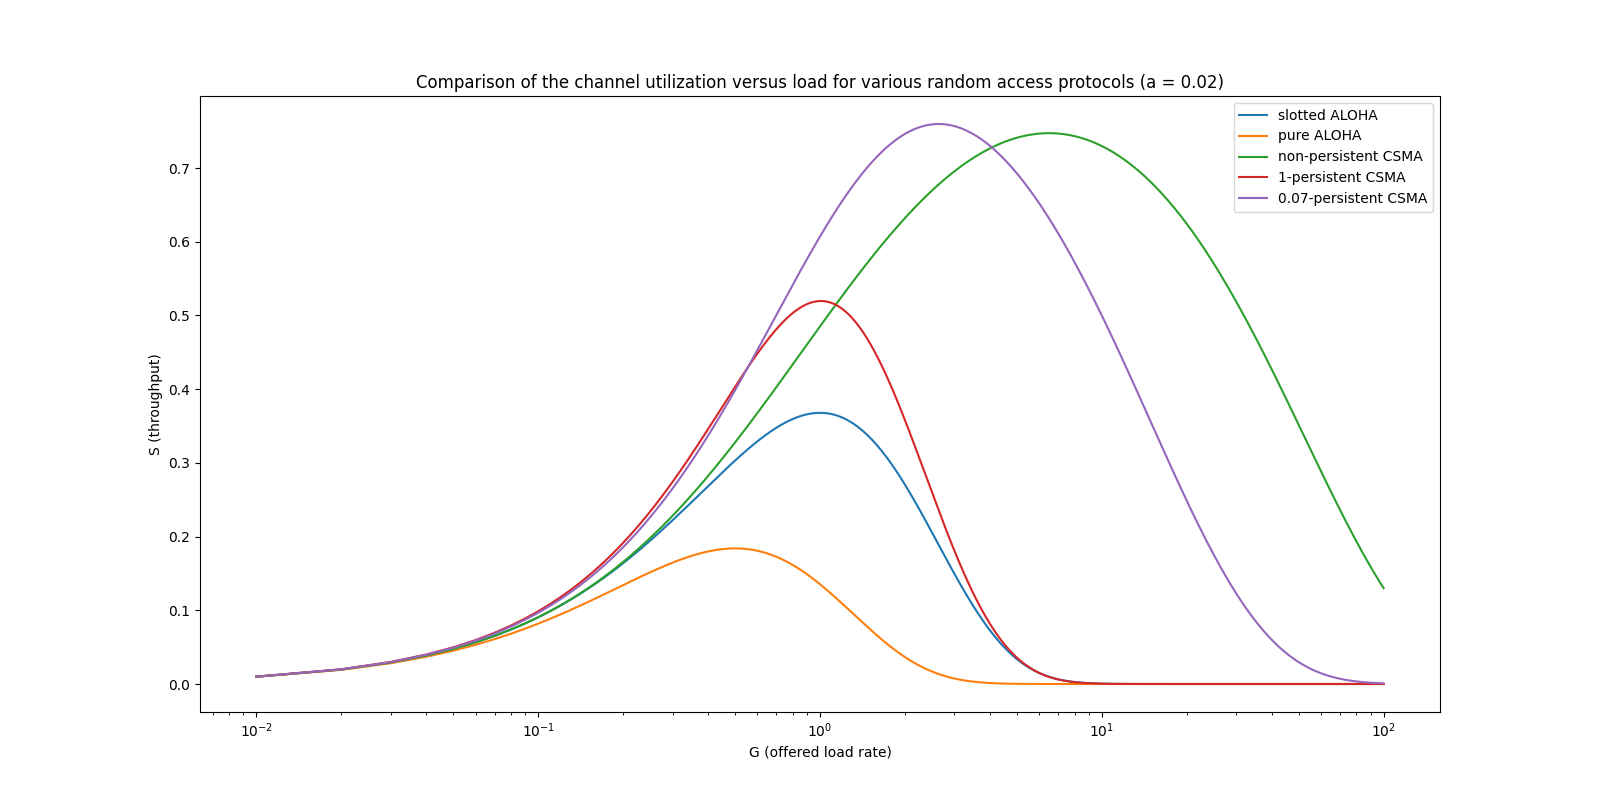
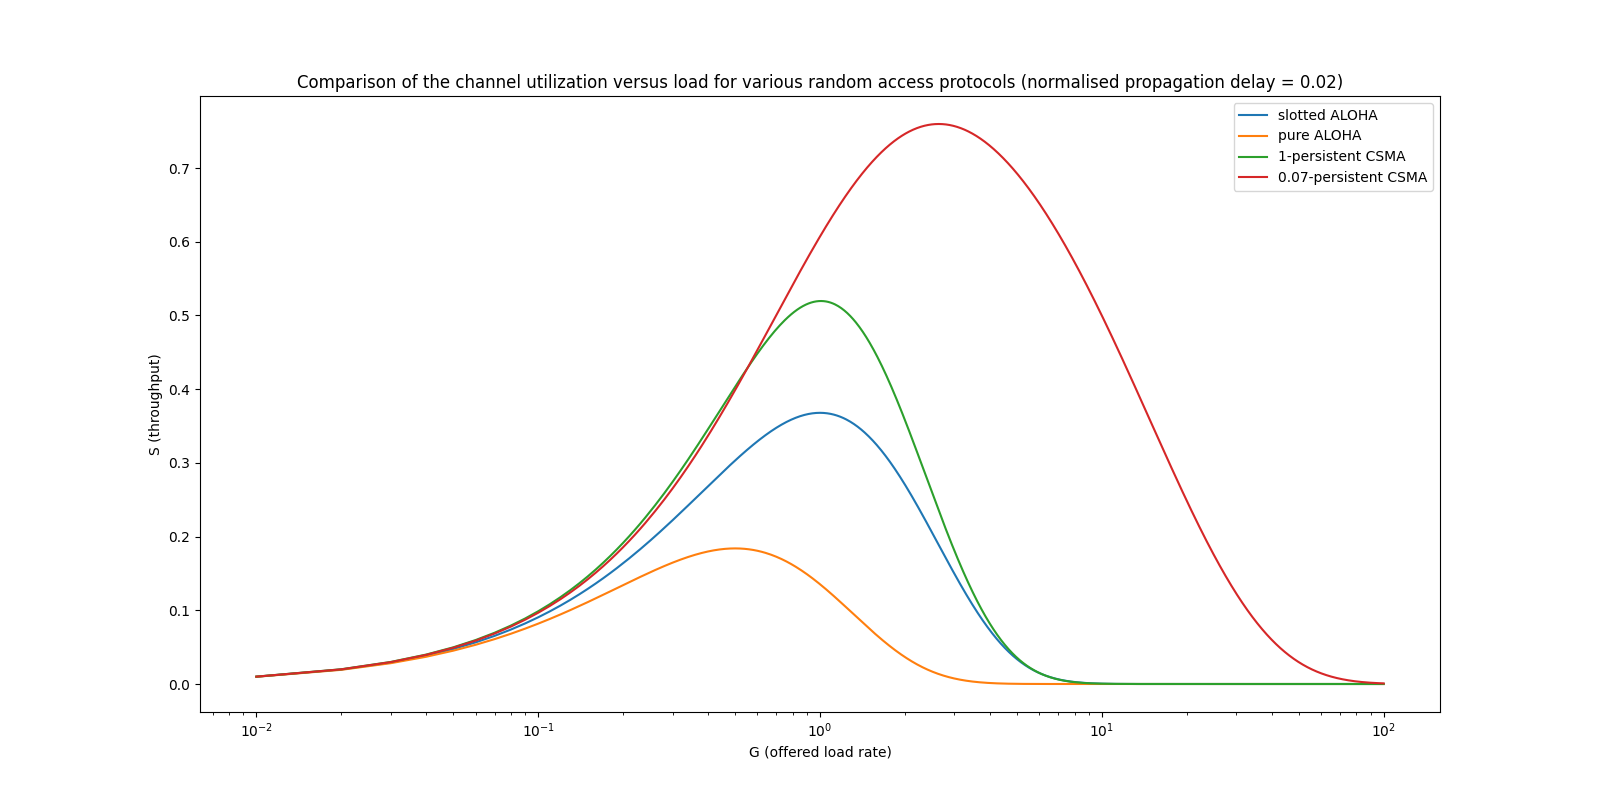
remove non-persistent CSMA

diff --git a/assignment_1/plot_mac_protocols_throughput.py b/assignment_1/plot_mac_protocols_throughput.py
@@ -1,3 +1,10 @@
+"""
+Run this script to plot figure for CZ3006 assignment 1.
+
+dependencies:
+- Python: 3.7.4
+- matplotlib: 3.2.1
+"""
 import math
 import matplotlib.pyplot as plt
 
@@ -10,25 +17,6 @@ slotted_aloha_throughput = lambda G: G * math.e**-G
 
 # equation 1
 pure_aloha_throughput = lambda G: G * math.e**(-2 * G)
-
-
-# equation 3
-def non_persistent_csma_throughput(G, a):
-    """
-    params:
-    - G (float): offered load rate
-    - a (float): normalised propagation delay
-
-    return:
-    (float) non-persistent CSMA throughput
-    """
-    # time during a cycle that the channel is used without conflicts
-    U_bar = math.e**(-a * G)
-
-    numerator = G * U_bar
-    denominator = G * (1 + 2*a) + U_bar
-
-    return numerator / denominator
 
 
 # equation 10
@@ -65,9 +53,9 @@ def approximate_p_persistent_csma_throughput(G, p, a):
 
     q = 1 - p
 
-    # refer to proof in Appendix A
+    # refer to proof in Appendix A for the following formulas
 
-    # store value in variable to avoid recalculation
+    # store value in variable to avoid recomputation
     pi_0_exp_p_minus_pi_0 = pi_0**p - pi_0
 
     t_bar_hat = pi_0_exp_p_minus_pi_0 / (
@@ -86,7 +74,7 @@ def approximate_p_persistent_csma_throughput(G, p, a):
 
     P_s_hat = P_s_hat_first_term - P_s_hat_second_term
 
-    # store value in variable to avoid recalculation
+    # store value in variable to avoid recomputation
     e_exp_neg_g_exp_p_minus_e_exp_neg_g = (math.e**-g)**p - math.e**-g
 
     t_bar_hat_prime = e_exp_neg_g_exp_p_minus_e_exp_neg_g / (
@@ -105,7 +93,7 @@ def approximate_p_persistent_csma_throughput(G, p, a):
 
     P_s_hat_prime = P_s_hat_prime_first_term - P_s_hat_prime_second_term
     
-    # store value in variable to avoid recalculation
+    # store value in variable to avoid recomputation
     one_minus_e_exp_neg_a_G = 1 - math.e**(-a * G)
 
     numerator = one_minus_e_exp_neg_a_G * (
@@ -117,7 +105,6 @@ def approximate_p_persistent_csma_throughput(G, p, a):
     ) + a * pi_0
 
     return numerator / denominator
-
 
 
 def plot_mac_protocols_throughput():
@@ -132,7 +119,6 @@ def plot_mac_protocols_throughput():
     mac_protocols = {
         'slotted ALOHA': slotted_aloha_throughput,
         'pure ALOHA': pure_aloha_throughput,
-        'non-persistent CSMA': (lambda G: non_persistent_csma_throughput(G, a)),
         '1-persistent CSMA': (lambda G: one_persistent_csma_throughput(G, a)),
         '0.07-persistent CSMA': (lambda G: approximate_p_persistent_csma_throughput(G, 0.07, a)),
     }
@@ -148,8 +134,8 @@ def plot_mac_protocols_throughput():
         plt.plot(offered_load_rate, throughput, label=mac_protocol)
 
     plt.title(
-        'Comparison of the channel utilization versus load '
-        f'for various random access protocols (a = {a})'
+        'Comparison of the channel utilization versus load for various ' 
+        f'random access protocols (normalised propagation delay = {a})'
     )
     plt.xlabel('G (offered load rate)')
     plt.ylabel('S (throughput)')
